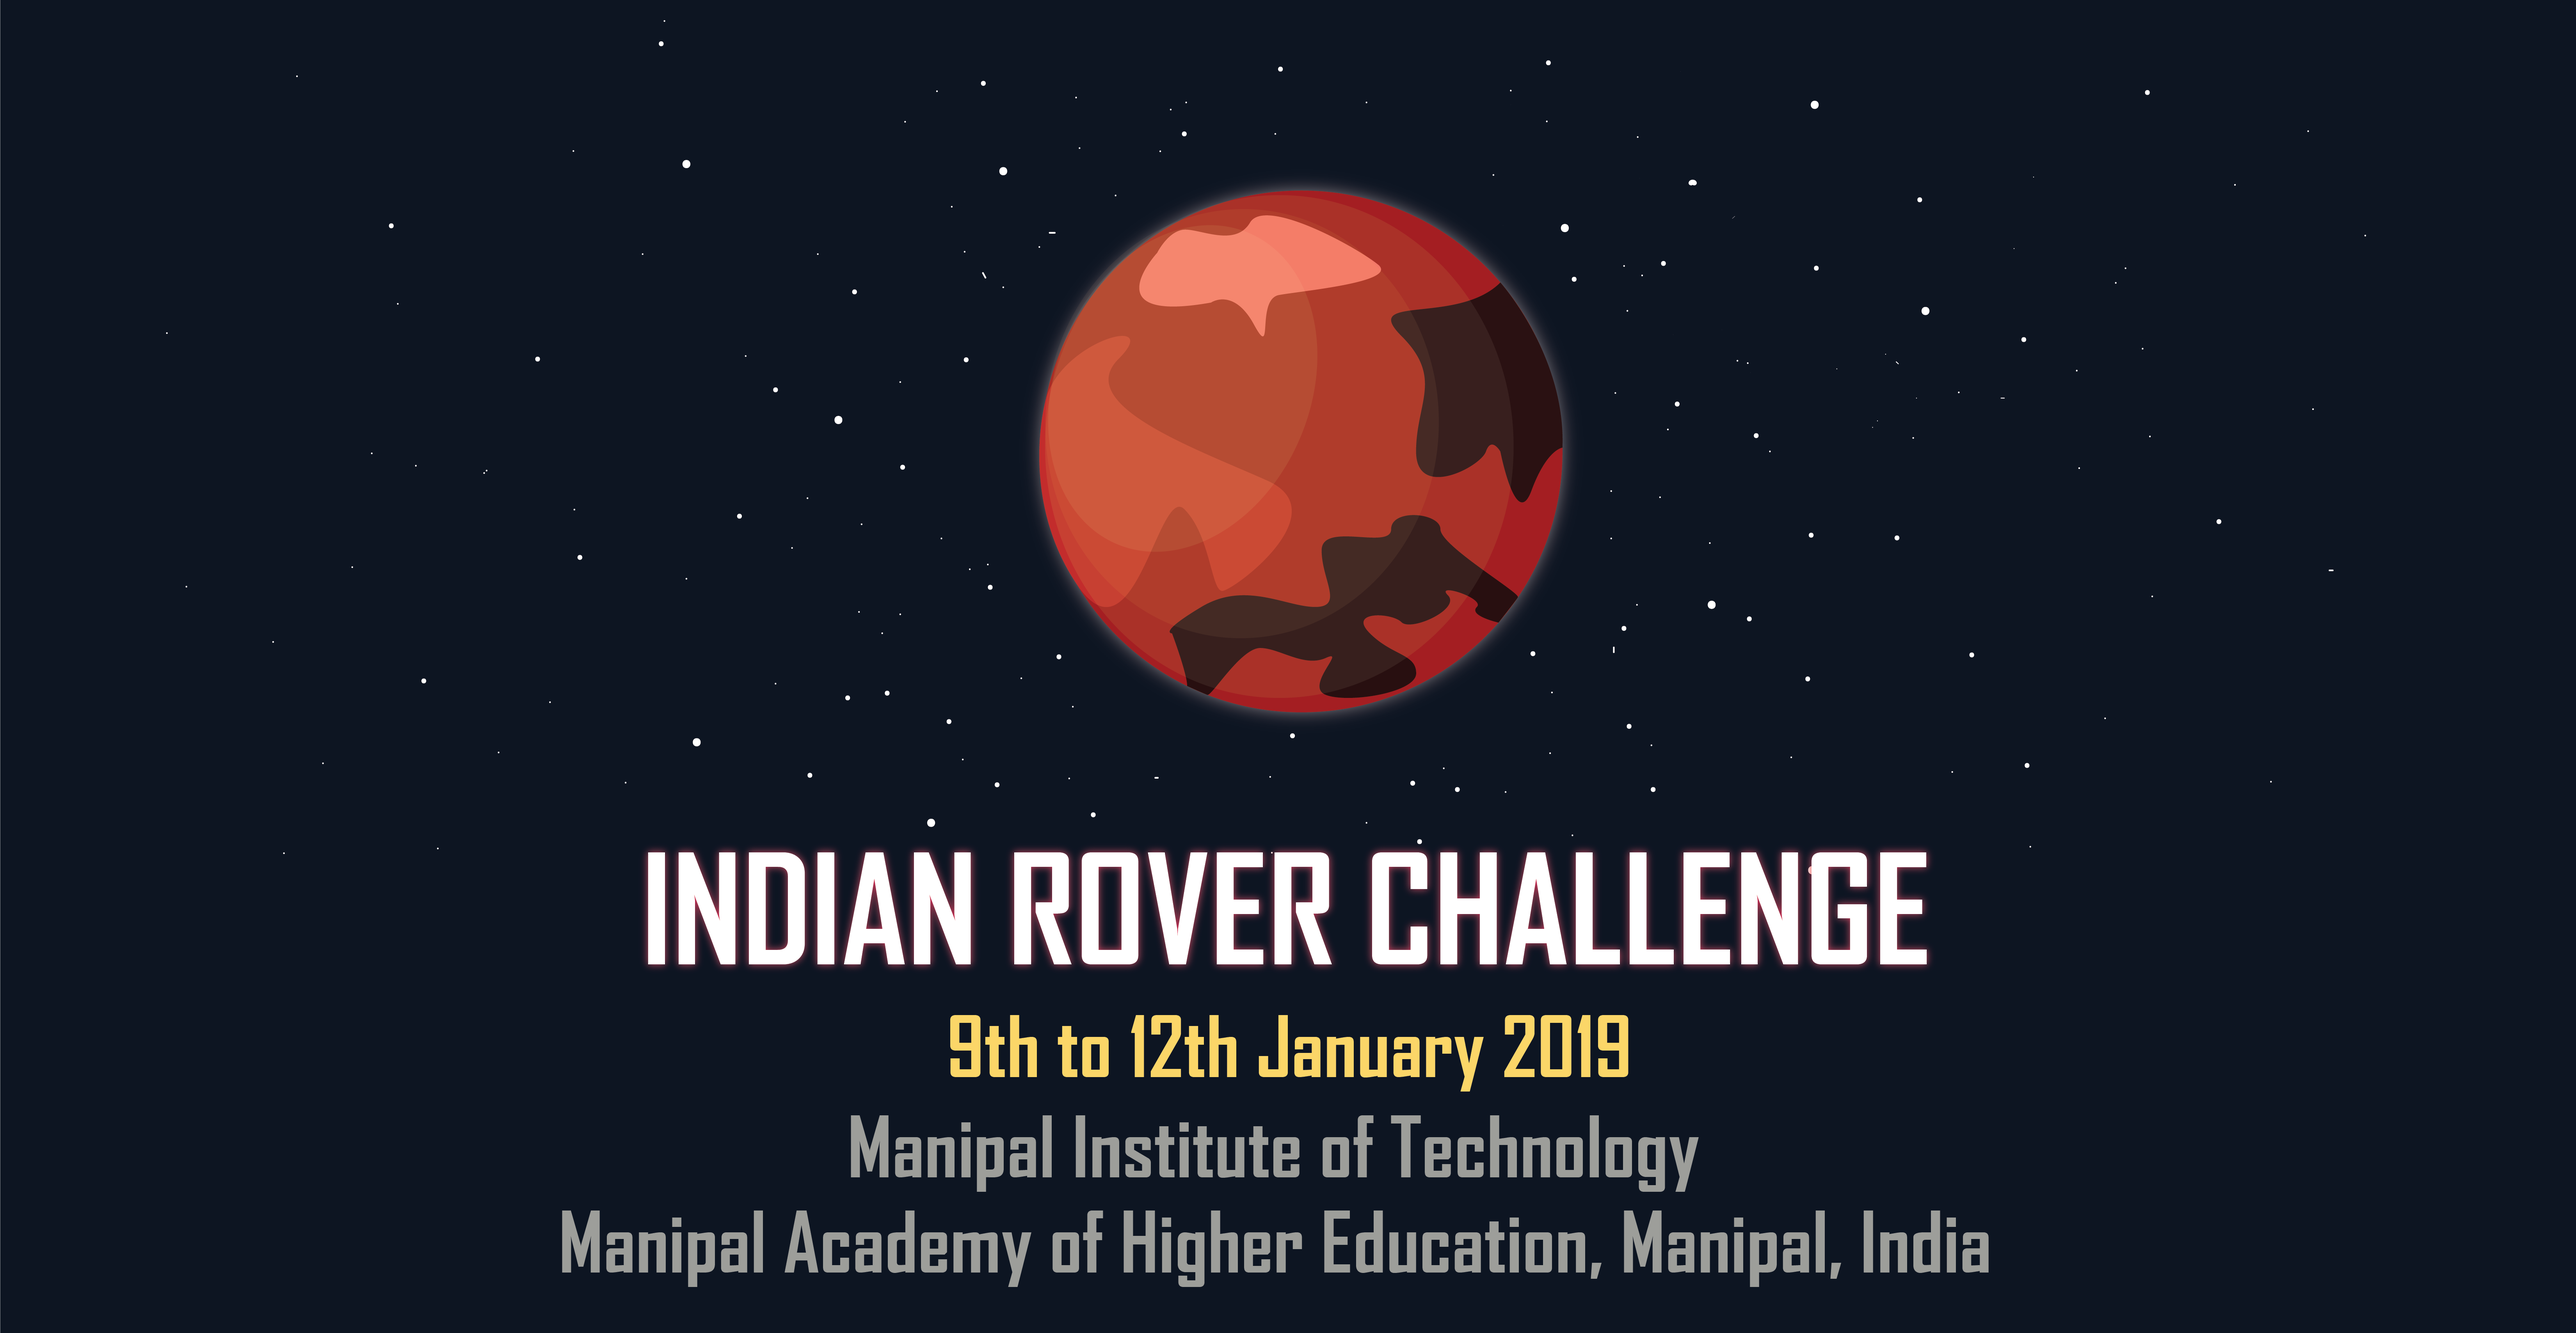
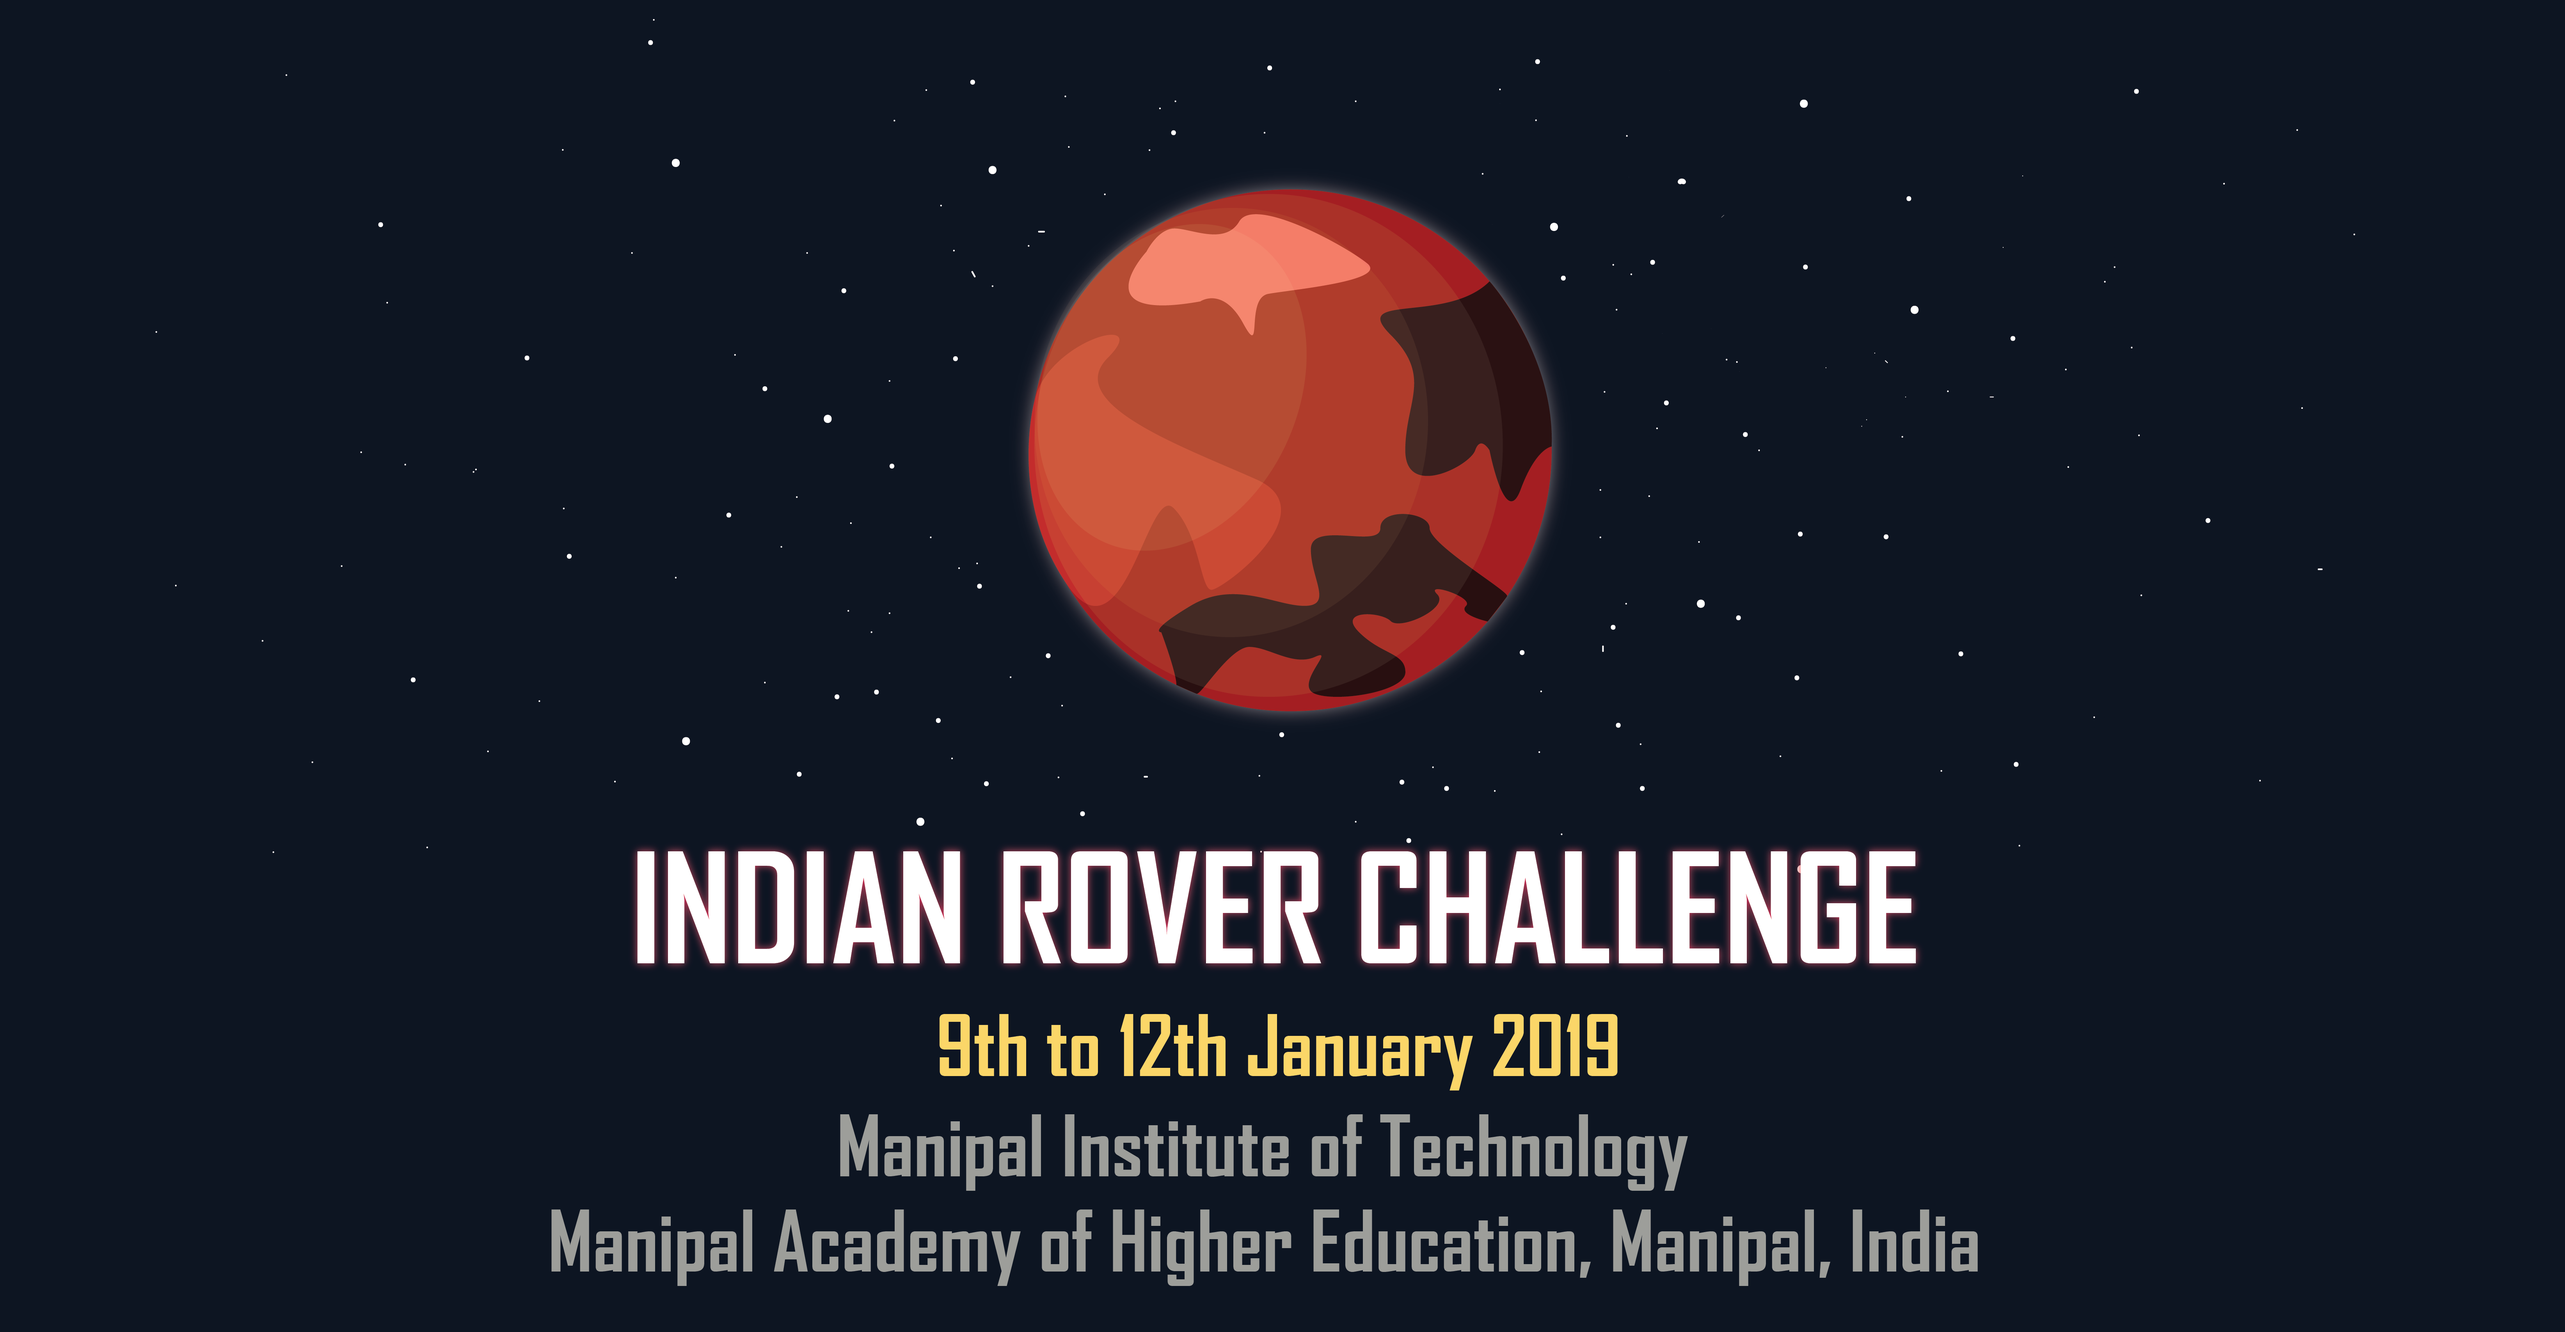
Whats New Section and some other changes

diff --git a/rules.html b/rules.html
@@ -14,7 +14,7 @@
 </head>
 <body>
 
-	<div class="faqbg" style="background: url(images/topimg-Copy.png); background-size:99.9% 99.9%;	">
+	<div class="faqbg" style="background: url(images/topimg-Copy.png);  background-size: 900px 400px; background-repeat: no-repeat; background-position: center;background-color: RGB(13,21,34)">
 		<div class="topbar">
 <!--			<img src="images/IRC.png"> -->
 		</div>
@@ -194,7 +194,7 @@ of providing feedback to the operators. Members of the judging team, media, and 
 
     </div>-->
 
-<div class="footer" style="margin-top: 0px;">
+<div class="footer">
 
             <div id="footerwrapper">
 
@@ -202,16 +202,16 @@ of providing feedback to the operators. Members of the judging team, media, and 
 
                         <div id="number">
                             <img src ="images/mobile-phone.png" height="30px" width="30px" >
-                            <p>Sagar Dhaka</p>
-                            <p>+91 - </p>
-                            <p>Shantam Shorewala</p>
-                            <p>+91</p>
-                            <p>indianroverchallenge@gmail.com</p>
+                            <p style="font-family: montserrat">Sagar Dhaka</p>
+                            <p style="font-family: montserrat">+91 - </p>
+                            <p style="font-family: montserrat">Shantam Shorewala</p>
+                            <p style="font-family: montserrat">+91</p>
+                            <p style="font-family: montserrat">indianroverchallenge@gmail.com</p>
                         </div>
 
                         <div id="email">
                             <img src="images/placeholder.png" height="30px" width="30px">
-                            <p>Mars Rover Manipal,MAHE Automobile Workshop,MIT, Manipal, India - 576104</p>
+                            <p style="font-family: montserrat">Mars Rover Manipal,MAHE Automobile Workshop,MIT, Manipal, India - 576104</p>
 
                         </div>
 
@@ -229,12 +229,12 @@ of providing feedback to the operators. Members of the judging team, media, and 
                     <div id="supporters">
 
                         <div>
-                            <h4>Backed By</h4>
-                            <img src="images/marssociety.png" id="msl" class='large-logo' style="padding-bottom: 10px;">
+                            <h4 style="font-family: montserrat">Backed By</h4>
+                            <a href="https://www.marssociety.org" target="_blank"><img src="images/marssociety.png" id="msl" class='large-logo' style="padding-bottom: 10px;"></a>
                         </div>
 
-                        <div>
-                            <h4>Powered By</h4>
+                        <div style="display: none;">
+                            <h4 style="font-family: montserrat">Powered By</h4>
                             <img src="images/mahindralogo2.png" id="mahi" class='medium-logo' style="padding-bottom: 10px;" >
                         </div>
 
@@ -243,10 +243,10 @@ of providing feedback to the operators. Members of the judging team, media, and 
 
                     <div id="organizers">
                         <div>
-                            <img src="images/mahe.png" class='large-logo' style="padding-bottom: 10px; margin-left: 0px; margin-right: 0px;">
+                            <a href="https://www.manipal.edu" target="_blank"><img src="images/mahe.png" class='large-logo' style="padding-bottom: 10px; margin-left: 0px; margin-right: 0px;"></a>
                         </div>
                         <div>
-                                <img src="images/logo.png" class='small-logo' style="margin: 0px;">
+                                <a href="https://www.marsrovermanipal.com" target="_blank"><img src="images/logo.png" class='small-logo' style="margin: 0px;"></a>
                         </div>
                     </div>
 

diff --git a/resources.html b/resources.html
@@ -15,7 +15,7 @@
 </head>
 <body>
 
-	<div class="faqbg" style="background: url(images/topimg-Copy.png); background-size:99.9% 99.9%;">
+	<div class="faqbg" style="background: url(images/topimg-Copy.png);  background-size: 900px 400px; background-repeat: no-repeat; background-position: center;background-color: RGB(13,21,34)">
 		<div class="topbar">
 <!--			<img src="images/IRC.png"> -->
 		</div>
@@ -195,16 +195,16 @@
 
                         <div id="number">
                             <img src ="images/mobile-phone.png" height="30px" width="30px" >
-                            <p>Sagar Dhaka</p>
-                            <p>+91 - </p>
-                            <p>Shantam Shorewala</p>
-                            <p>+91</p>
-                            <p>indianroverchallenge@gmail.com</p>
+                            <p style="font-family: montserrat">Sagar Dhaka</p>
+                            <p style="font-family: montserrat">+91 - </p>
+                            <p style="font-family: montserrat">Shantam Shorewala</p>
+                            <p style="font-family: montserrat">+91</p>
+                            <p style="font-family: montserrat">indianroverchallenge@gmail.com</p>
                         </div>
 
                         <div id="email">
                             <img src="images/placeholder.png" height="30px" width="30px">
-                            <p>Mars Rover Manipal,MAHE Automobile Workshop,MIT, Manipal, India - 576104</p>
+                            <p style="font-family: montserrat">Mars Rover Manipal,MAHE Automobile Workshop,MIT, Manipal, India - 576104</p>
 
                         </div>
 
@@ -222,12 +222,12 @@
                     <div id="supporters">
 
                         <div>
-                            <h4>Backed By</h4>
+                            <h4 style="font-family: montserrat">Backed By</h4>
                             <a href="https://www.marssociety.org" target="_blank"><img src="images/marssociety.png" id="msl" class='large-logo' style="padding-bottom: 10px;"></a>
                         </div>
 
                         <div style="display: none;">
-                            <h4>Powered By</h4>
+                            <h4 style="font-family: montserrat">Powered By</h4>
                             <a href="" target="_blank"><img src="images/mahindralogo2.png" id="mahi" class='medium-logo' style="padding-bottom: 10px;" ></a>
                         </div>
 

diff --git a/style.css b/style.css
@@ -276,14 +276,12 @@ vertical-align: middle;
     padding: 0px;
     margin: 0%;
     text-align: center;
-    font-family: 'Merienda One', cursive;
+    font-family: 'montserrat';
     color: white;
     top: 100px;
     position: relative;
-    font-size: 90px;
-    text-shadow: 4px 4px #A9DFBF;
-    letter-spacing: 24px;
-    font-weight: 400;
+    font-size: 95px;
+    text-shadow: 4px 4px grey;
 }
 .faqhead
 {
@@ -505,12 +503,11 @@ vertical-align: middle;
   padding: 0px;
     margin: 0%;
     text-align: center;
-    font-family: 'Merienda One', cursive;
     color: white;
     top: 100px;
     position: relative;
     font-size: 90px;
-    text-shadow: 4px 4px #AED6F1;
+    text-shadow: 4px 4px grey;
 }
 
 #down
@@ -523,8 +520,7 @@ vertical-align: middle;
 
 @media screen and (min-width: 601px) {
   .top h1 {
-    font-size: 70px;
-    letter-spacing: 16px;
+    font-size: 95px;
   }
 }
 
@@ -1019,13 +1015,12 @@ height: 220px;
     padding: 0px;
     margin: 0%;
     text-align: center;
-    font-family: 'Merienda One', cursive;
+    font-family: 'montserrat';
     color: white;
     top: 100px;
     position: relative;
-    font-size: 90px;
+    font-size: 95px;
     text-shadow: 4px 4px #4F4F4F;
-    font-weight: 300 !important;
 }
 .ruleshead
 {

diff --git a/newhome.css b/newhome.css
@@ -315,6 +315,21 @@ margin: 0px;
 /* SOCIAL MEDIA ICONS ENDS */
 /* ////// */
 
+/* ////// */
+/* WHAT'S NEW SECTION */
+/* ////// */
+
+.whatsnew
+{
+  background: grey;
+  font-family: 'Montserrat'
+  width: 100%;
+  display: inline-block;
+}
+.whatsnew p, h4
+{
+  font-family: 'Montserrat'
+}
 
 /* ////// */
 /* COUNTDOWN */
@@ -514,7 +529,10 @@ height: 100%;
 .top
     {
         background-image: url(images/topimg.png);
-        background-size: 99.9% 99.9%;
+        background-size: 800px 420px;
+        background-repeat: no-repeat;
+        background-position: center;
+        background-color: RGB(13,21,34);
 
     }
     #content,#roverchallengeseries
@@ -523,7 +541,7 @@ height: 100%;
     }
     #content>div,#roverchallengeseries>div
     {
-      width: 80%;
+      width: 100%;
       margin: 0 auto;
       text-align: center;
     }
@@ -782,7 +800,6 @@ color: white;
 font-size: 20px;
 width: 80%;
 position: relative;
-margin-top: 50px;
 margin-left: 30px;
 padding-top: 50px;
 padding-left: 80px;

diff --git a/index.html b/index.html
@@ -56,7 +56,7 @@
 			<a href="fqu.html" >FAQ</a>
 			<a href="whysponsor.html">Support Us</a>
 			<a href="rules.html">Rules</a>
-      <a href="resources.html">Resources</a>
+      		<a href="resources.html">Resources</a>
 
        <div id="socailm">
 				 <style type="text/css">
@@ -167,6 +167,16 @@ MIT’s rover design team ‘Mars Rover Manipal’ (MRM) is supposed to organize
 				</div>
 			</div>
 		</div>
+	<div class="whatsnew">
+		<h2>What's New</h2>
+		<div class="wn1">
+			<h4>Heading 1</h4><p>Content 1</p></div>
+		<div class="wn2">
+			<h4>Heading 2</h4><p>Content 2</p></div>
+		<div class="wn3">
+			<h4>Heading 3</h4><p>Content 3</p></div>
+	</div>
+
 
 	</div> <!-- white box ends -->
 

diff --git a/res.html b/res.html
@@ -14,7 +14,7 @@
 
 <body id="res">
 
-    <div class="top" style="background-image: url('images/topimg-Copy.png'); background-size:99.9% 99.9%">
+    <div class="top" style="background-image: url('images/topimg-Copy.png');  background-size: 900px 400px; background-repeat: no-repeat; background-position: center;background-color: RGB(13,21,34)">
 
     	<div class="heading"><h1>IRC 2019</h1></div>
 

diff --git a/fqu.html b/fqu.html
@@ -27,7 +27,7 @@
 </head>
 <body>
 
-	<div class="faqbg" style="background: url(images/topimg-Copy.png); background-size:99.9% 99.9%;">
+	<div class="faqbg" style="background: url(images/topimg-Copy.png); background-size: 900px 400px; background-repeat: no-repeat; background-position: center;background-color: RGB(13,21,34)">
 		<div class="topbar">
 <!--			<img src="images/IRC.png"> -->
 		</div>

diff --git a/whysponsor.html b/whysponsor.html
@@ -34,7 +34,7 @@
 
 <body style="overflow:hidden;">
 
-	<div class="top" style=" background-image: url('images/topimg-Copy.png'); background-size:99.9% 99.9%;">
+	<div class="top" style=" background-image: url('images/topimg-Copy.png');  background-size: 900px 400px; background-repeat: no-repeat; background-position: center;background-color: RGB(13,21,34)">
 
 		<h1>Support our Event </h1>
 

diff --git a/reg.html b/reg.html
@@ -16,7 +16,7 @@
 
 <body>
 
-	<div class="top" style="background-image: url('images/topimg-Copy.png'); background-size: 99.9% 99.9%;">
+	<div class="top" style="background-image: url('images/topimg-Copy.png'); background-size: 900px 400px; background-repeat: no-repeat; background-position: center;background-color: RGB(13,21,34)">
 
 		<h1>Registration</h1>
 
